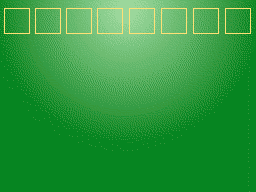
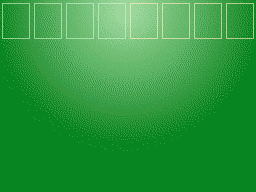
Better free and home cell placement.

Changed region(s): [[0.0, 0.0, 1.0, 0.2188]]

diff --git a/source/main.cpp b/source/main.cpp
@@ -176,13 +176,13 @@ public:
 		for (int i = 0; i < 4; i++)
 		{
 			if (freecells[i] != NULL)
-				DrawCard(freecells[i], pos++, i*32, 12);
+				DrawCard(freecells[i], pos++, i*32, 5);
 		}
 
 		for (int i = 0; i < 4; i++)
 		{
 			if (!finish[i].empty())
-				DrawCard(finish[i][finish[i].size()-1], pos++, (4+i)*32, 12);
+				DrawCard(finish[i][finish[i].size()-1], pos++, (4+i)*32, 5);
 		}
 
 		while (pos < 128)
